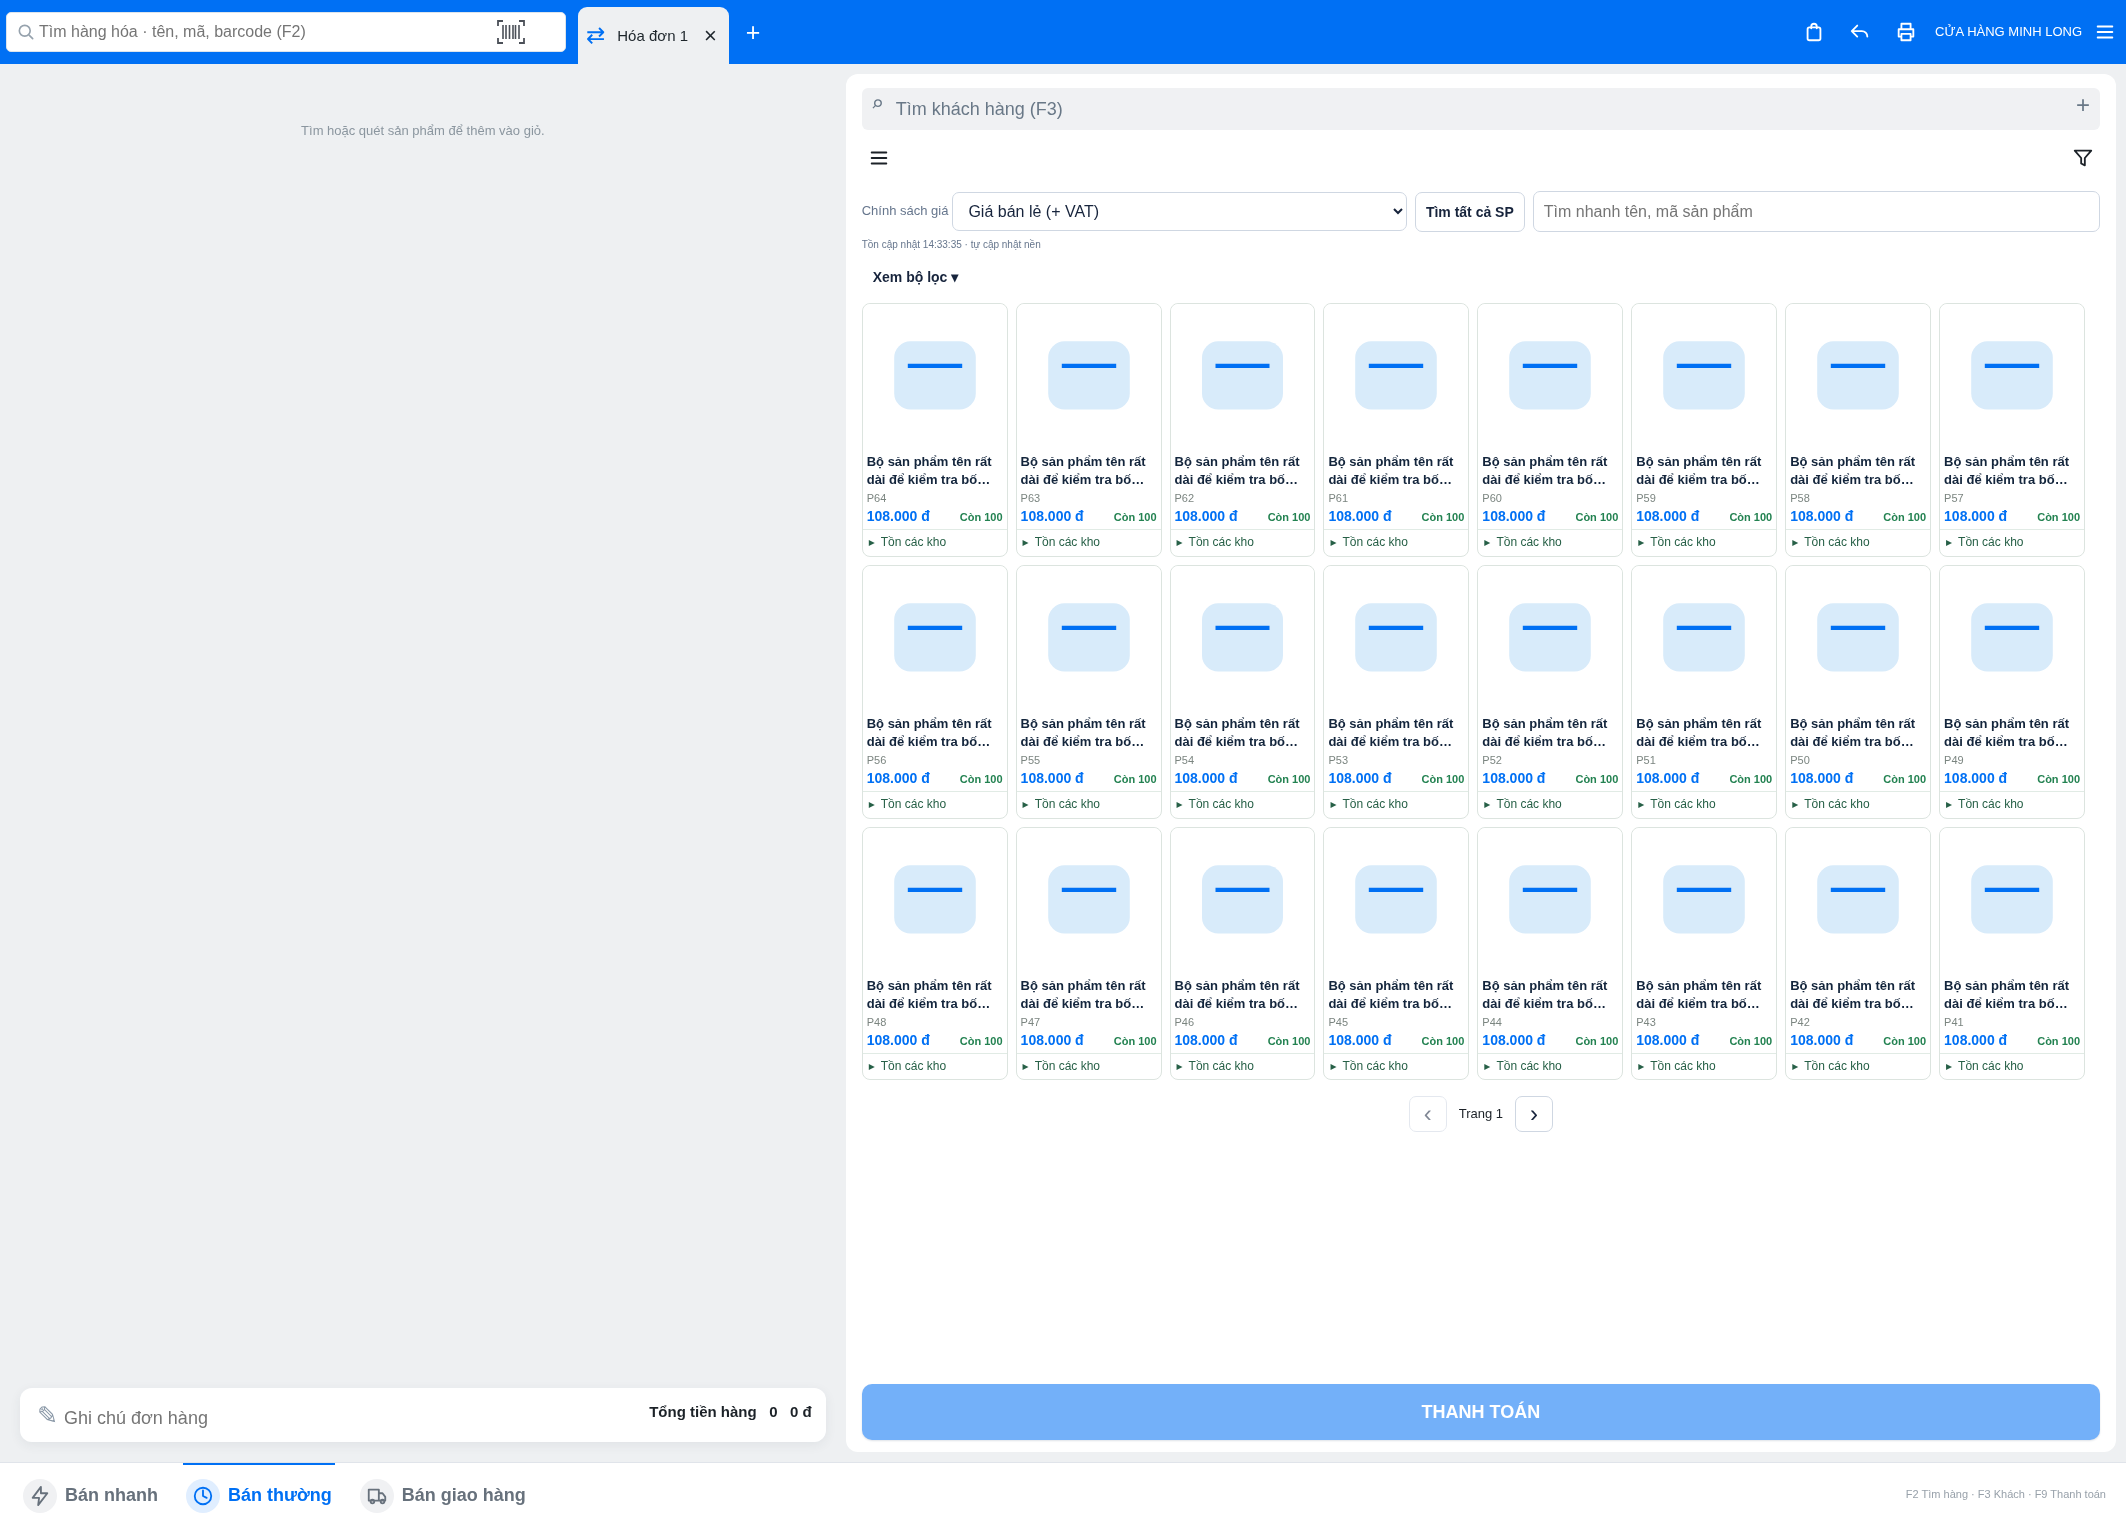
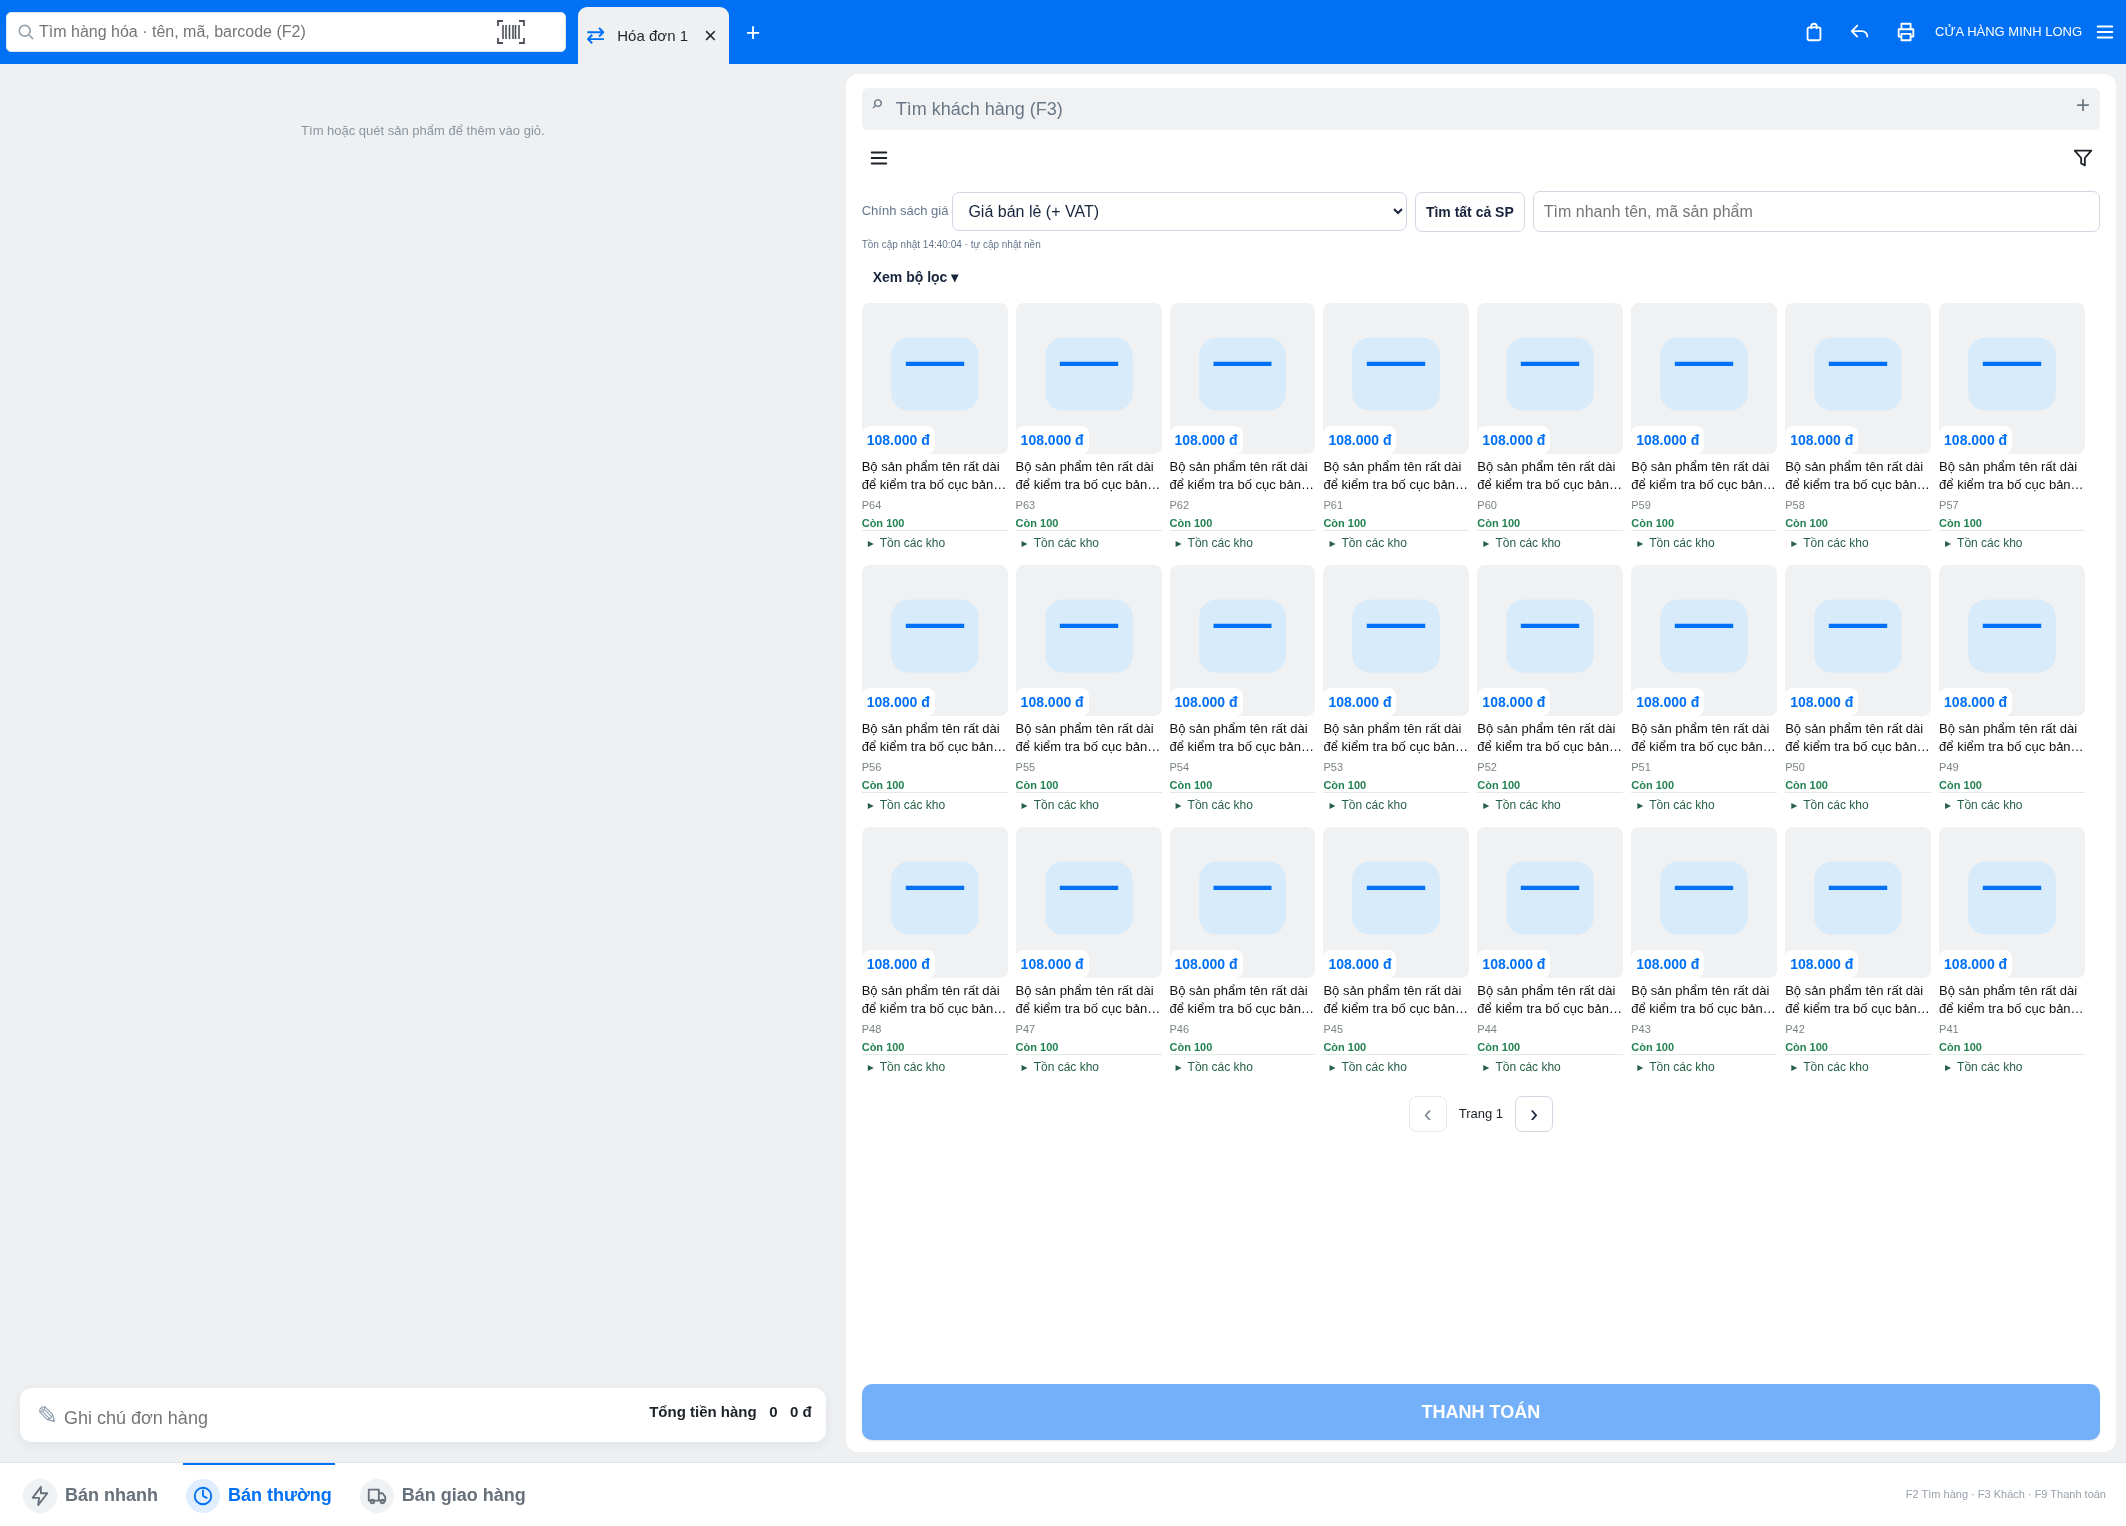
[Codex-1] Match catalog photo price badges to supplied screenshot

diff --git a/trial-ui/pos-reference.css b/trial-ui/pos-reference.css
@@ -325,3 +325,18 @@
   .pos-workspace.pos-reference.pos-pc-scan.pos-mode-grid .pos-product-price-stock strong {font-size:14px;line-height:18px;}
   .pos-workspace.pos-reference.pos-pc-scan.pos-mode-grid .pos-product-price-stock .pos-stock {font-size:11px;}
 }
+
+/* Image-view reference: price on the photo, product name below, no enclosing card. */
+@media(min-width:851px) {
+  .pos-workspace.pos-reference.pos-pc-scan.pos-mode-grid .pos-ref-products:not(.pos-ref-list) .pos-product-tile {border:0;border-radius:0;background:transparent;}
+  .pos-workspace.pos-reference.pos-pc-scan.pos-mode-grid .pos-ref-products:not(.pos-ref-list) .pos-product-tile>.pos-product {display:grid;grid-template-columns:minmax(0,1fr);grid-template-rows:minmax(48px,1fr) 36px 14px 14px;gap:4px;padding:0;background:transparent;border-radius:0;box-shadow:none;}
+  .pos-workspace.pos-reference.pos-pc-scan.pos-mode-grid .pos-ref-products:not(.pos-ref-list) .pos-product img,
+  .pos-workspace.pos-reference.pos-pc-scan.pos-mode-grid .pos-ref-products:not(.pos-ref-list) .pos-product .pos-image-empty {grid-column:1;grid-row:1;width:100%;height:100%;min-height:0;max-height:none;object-fit:contain;border-radius:8px;background:#f0f1f2;}
+  .pos-workspace.pos-reference.pos-pc-scan.pos-mode-grid .pos-ref-products:not(.pos-ref-list) .pos-product-name {grid-column:1;grid-row:2;height:36px;min-height:36px;font-size:13px;line-height:18px;font-weight:400;color:#111;}
+  .pos-workspace.pos-reference.pos-pc-scan.pos-mode-grid .pos-ref-products:not(.pos-ref-list) .pos-product-sku {grid-column:1;grid-row:3;}
+  .pos-workspace.pos-reference.pos-pc-scan.pos-mode-grid .pos-ref-products:not(.pos-ref-list) .pos-product-price-stock {display:contents;}
+  .pos-workspace.pos-reference.pos-pc-scan.pos-mode-grid .pos-ref-products:not(.pos-ref-list) .pos-product-price-stock strong {grid-column:1;grid-row:1;align-self:end;justify-self:start;z-index:1;max-width:100%;box-sizing:border-box;padding:4px 5px;border-radius:8px;background:#fff;color:#0070f4;font-size:14px;line-height:20px;}
+  .pos-workspace.pos-reference.pos-pc-scan.pos-mode-grid .pos-ref-products:not(.pos-ref-list) .pos-product-price-stock .pos-stock {grid-column:1;grid-row:4;margin:0;text-align:left;line-height:14px;}
+  .pos-workspace.pos-reference.pos-pc-scan.pos-mode-grid .pos-ref-products:not(.pos-ref-list) .pos-product-in-cart img,
+  .pos-workspace.pos-reference.pos-pc-scan.pos-mode-grid .pos-ref-products:not(.pos-ref-list) .pos-product:not(:disabled):hover img {outline:2px solid #0070f4;outline-offset:-2px;}
+}

diff --git a/docs/reviews/pos-product-photos/README.md b/docs/reviews/pos-product-photos/README.md
@@ -4,19 +4,21 @@
 
 ## Thay đổi
 
-- Bỏ chiều cao ảnh cố định 48px. Vùng ảnh dùng khoảng trống của thẻ, tối đa 160px, căn giữa và giữ trọn ảnh bằng `object-fit: contain`.
+- Bỏ chiều cao ảnh cố định 48px. Vùng ảnh dùng khoảng trống của thẻ, căn giữa và giữ trọn ảnh bằng `object-fit: contain`.
+- Theo ảnh mẫu bổ sung: giá xanh trên nền trắng nằm ở góc dưới trái ảnh; tên chữ thường ở dưới ảnh; bỏ viền bao quanh thẻ. Mã hàng, tồn kho, xem tồn các kho và trạng thái đã chọn vẫn giữ nguyên.
 - Giới hạn chiều cao ba hàng theo chiều rộng danh mục để thẻ không kéo dài hết màn hình cao, giảm khoảng trắng giữa ảnh và thông tin.
 - Giữ 8 cột × 3 hàng, mũi tên phân trang, giá/tồn kho, tìm kiếm, bộ lọc và thao tác thêm vào giỏ. Kiểu danh sách vẫn dùng quy tắc riêng hiện có.
 - CSS ứng dụng chỉ áp dụng cho Bán thường trên desktop (từ 851px). Không thay URL ảnh gốc, pipeline thumbnail, API, giá tiền, quyền hay dữ liệu production.
 
 ## Kiểm chứng
 
-Trước sửa, harness có assertion mới thất bại tại 2126×1526: `product photos must use the card image area, not a fixed 48px strip`.
+Trước sửa, harness có assertion mới thất bại tại 2126×1526: `product photos must use the card image area, not a fixed 48px strip`. Sau khi người dùng bổ sung ảnh mẫu giá đè trên ảnh, tái hiện thêm assertion thất bại trên bản đầu của PR: `price badge overlays photo, name sits below and tile has no outer border`.
 
 Sau sửa, `scripts/testing/pos-catalog-pages.mjs` hoàn thành thành công tại 2126×1526, 1812×1000, 2214×1000, 1280×1000 và 1024×1000:
 
 - Mỗi trang 24/24/20 sản phẩm, đúng 8 cột và 3 hàng; không mất hoặc trùng mã giữa các trang.
 - Tại viewport người dùng, mọi vùng ảnh cao ít nhất 100px và ít nhất 70% chiều rộng; vẫn `contain` và giữ nguồn ảnh gốc của fixture.
+- Cả năm viewport đều đạt: nhãn giá nằm trong vùng ảnh, tên nằm dưới ảnh và không có viền bao thẻ.
 - Ba hàng không cần cuộn dọc trên các viewport rộng; không tràn ngang toàn trang hoặc lỗi JavaScript.
 - Tìm kiếm, bộ lọc, cache/fetch dự phòng và giữ giỏ hàng hoạt động; thao tác danh mục không ghi đơn, thanh toán hoặc giao vận.
 
@@ -39,4 +41,4 @@ Trước sửa:
 
 Sau sửa:
 
-![Vùng ảnh lớn, ba hàng thẻ gọn hơn](after.png)
+![Ảnh lớn với giá đè góc dưới, tên bên dưới, không viền thẻ](after.png)
